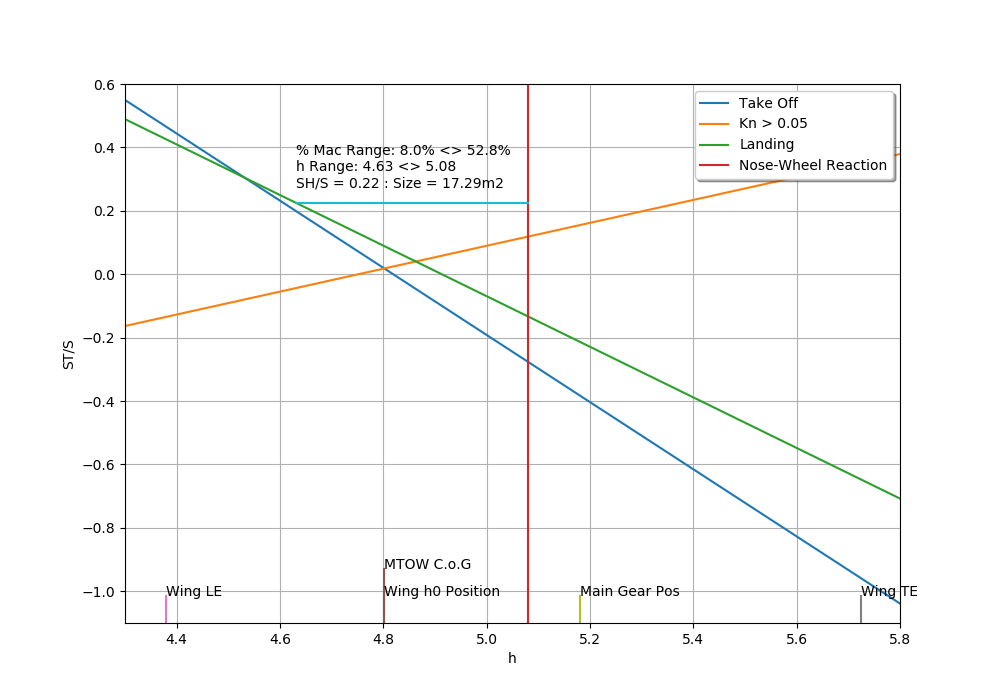
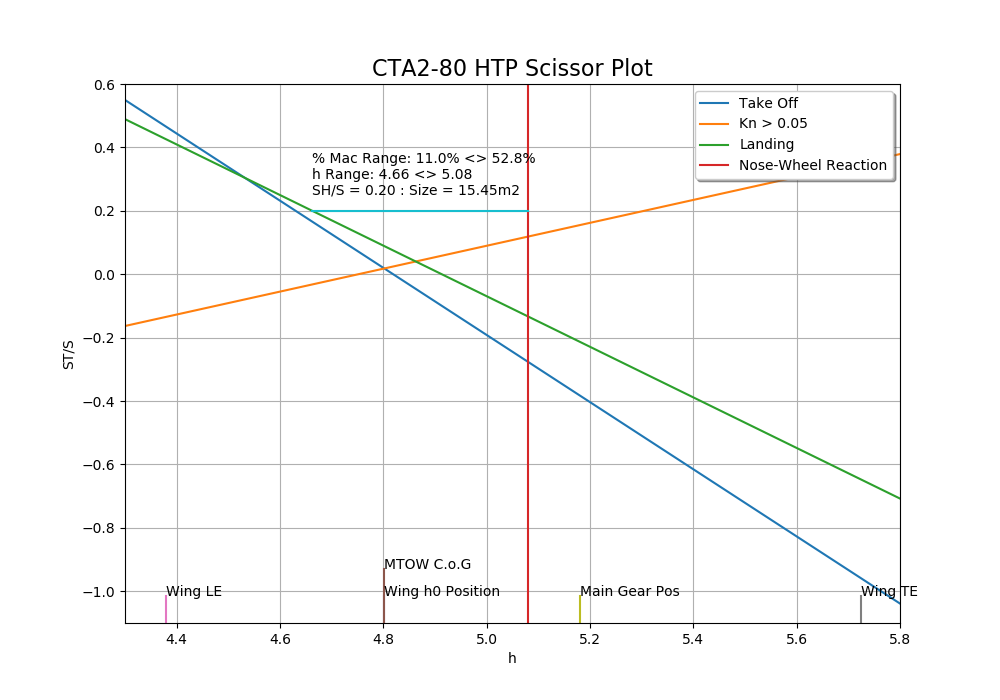
Add dual graph support for CTA2-80 showing required tail and common tail.

Changed region(s): [[0.279, 0.21, 0.527, 0.3], [0.372, 0.06, 0.651, 0.12]]

diff --git a/scissorplot.py b/scissorplot.py
@@ -207,7 +207,7 @@ def v_bar(size):
     print("v_bar: " + str(size*tail_moment_arm))
 
 
-def plotit(r1, r2, search_mac):
+def plotit(r1, r2, search_mac, common=False):
     # Create Range of h values
     step = 0.1
     r2 = r2 + step
@@ -293,8 +293,14 @@ def plotit(r1, r2, search_mac):
     print("SH/S = " + str(format(size[2], '.2f')) + " : Size = " + str(format(size[2]*params['Sarea'], '.2f')) + "m2")
     plt.grid(True)
     plt.legend(loc='upper right', shadow=True)
-    plt.savefig("tailplot.png")
+    if common is True:
+        plt.title("CTA2-80 HTP Scissor Plot with common tail from CTA2-100", size=20)
+        plt.savefig("tailplot-80-common.png")
+    else:
+        plt.title("CTA2-80 HTP Scissor Plot", size=16)
+        plt.savefig("tailplot.png")
     plt.show()
 
 
 plotit(4.3, 5.8, [0.11, 0.41])
+plotit(4.3, 5.8, [0.08, 0.53], common=True)
